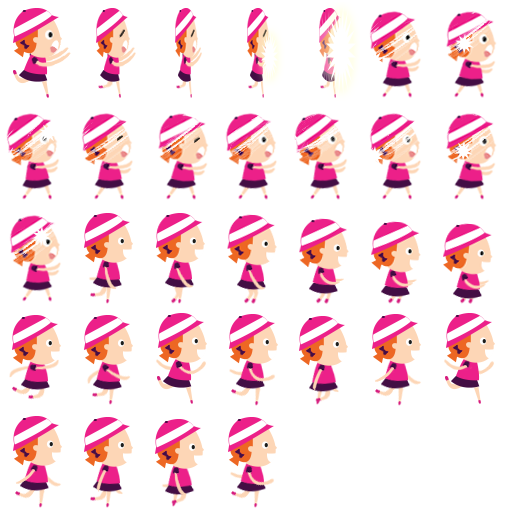
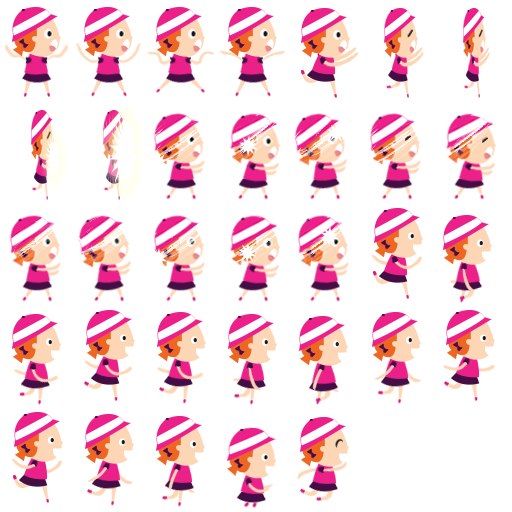
update player sprite

diff --git a/src/player.js b/src/player.js
@@ -36,13 +36,15 @@ var player = {
 
     this.scoreHud = game.add.text(10, 100, "SCORE: 0", { font: '24px fippsregular', fill: "#000" });
 
-		this.instance.animations.add('right', ['sprites_01.png', 'sprites_02.png', 'sprites_03.png', 'sprites_04.png', 'sprites_05.png', 'sprites_06.png', 'sprites_07.png', 'sprites_08.png', 'sprites_09.png', 'sprites_10'.png],
+		this.instance.animations.add('right', ['menina_correndo_01.png', 'menina_correndo_02.png', 'menina_correndo_03.png', 'menina_correndo_04.png', 'menina_correndo_05.png', 'menina_correndo_06.png', 'menina_correndo_07.png', 'menina_correndo_08.png', 'menina_correndo_09.png', 'menina_correndo_010.png', 'menina_correndo_011.png', 'menina_correndo_012.png'],
                                  15, true);
-		this.instance.animations.add('jump', ['menina_pulando_05.png', 'menina_pulando_06.png', 'menina_pulando_07.png'],
+		this.instance.animations.add('jump', ['menina_pulando_06.png', 'menina_pulando_07.png'],
                                  10, false);
-		this.instance.animations.add('collide', ['menina_colidindo_01.png', 'menina_colidindo_02.png', 'menina_colidindo_03.png', 'menina_colidindo_04.png', 'menina_colidindo_05.png', 'menina_colidindo_06.png', 'menina_colidindo_07.png', 'menina_colidindo_08.png', 'menina_colidindo_09.png', 'menina_colidindo_10.png', 'menina_colidindo_11.png', 'menina_colidindo_12.png', 'menina_colidindo_13.png', 'menina_colidindo_14.png', 'menina_colidindo_15'.png],
+		this.instance.animations.add('collide', ['menina_colidindo_01.png', 'menina_colidindo_02.png', 'menina_colidindo_03.png', 'menina_colidindo_04.png', 'menina_colidindo_05.png', 'menina_colidindo_06.png', 'menina_colidindo_07.png', 'menina_colidindo_08.png', 'menina_colidindo_09.png', 'menina_colidindo_10.png', 'menina_colidindo_11.png', 'menina_colidindo_12.png', 'menina_colidindo_13.png', 'menina_colidindo_14.png', 'menina_colidindo_15.png'],
                                  15, false);
 		this.instance.animations.add('confused', ['menina_colidindo_06.png', 'menina_colidindo_07.png', 'menina_colidindo_08.png', 'menina_colidindo_09.png', 'menina_colidindo_10.png', 'menina_colidindo_11.png', 'menina_colidindo_12.png', 'menina_colidindo_13.png', 'menina_colidindo_14.png', 'menina_colidindo_15.png'],
+                                 15, true);
+		this.instance.animations.add('falling', ['menina_caindo_01.png', 'menina_caindo_02.png', 'menina_caindo_03.png', 'menina_caindo_04.png'],
                                  15, true);
 
     // this.instance
@@ -63,8 +65,7 @@ var player = {
 
 	addEnergy: function(color) {
 		this.score += this.colorScore[color] * 2;
-    this.scoreHud.text = "SCORE: " + this.score;
-    this.scoreHud.dirty = true;
+    this.updateScoreText();
 
     worldVelocity += this.colorSpeed[color];
 		this.energies[color] += this.colorEnergy[color];
@@ -73,14 +74,18 @@ var player = {
 
 	addScore: function(color) {
 		this.score += this.colorScore[color];
-    this.scoreHud.text = "SCORE: " + this.score;
-    this.scoreHud.dirty = true;
+    this.updateScoreText();
 
     // lesser addEnergy
     worldVelocity += this.colorSpeed[color] / 2;
 		this.energies[color] += (this.colorEnergy[color] / 3);
 		this.energies[color] = (this.energies[color] > 1) ? 1 : this.energies[color];
 	},
+
+  updateScoreText: function() {
+    this.scoreHud.text = "SCORE: " + this.score;
+    this.scoreHud.dirty = true;
+  },
 
   kill: function() {
     var previousWorldVelocity = worldVelocity,

diff --git a/src/platforms.js b/src/platforms.js
@@ -45,6 +45,8 @@ var platforms = {
 		this.platformsGroup = game.add.group();
 		this.obstaclesGroup = game.add.group();
 		this.insertGround();
+
+    setInterval(function() { platforms.updateScoreTimer(); }, 2000);
 	},
 
 	// insere uma plataforma de acordo com o level atual
@@ -79,7 +81,6 @@ var platforms = {
       maxTileY = 4;
       this.level = 1;
       this.tileInterval = 50 + (Math.random() * 50);
-
     }
 
     tileSize = Math.floor(((maxTileSize + 1) - (minTileSize - 1)) * Math.random()) + minTileSize;
@@ -144,6 +145,12 @@ var platforms = {
     //enable sound equalizations
     sound.setLevel(this.level);
 	},
+
+  updateScoreTimer: function() {
+    player.score += this.level * 5;
+    player.scoreHud.dirty = true;
+    player.updateScoreText();
+  },
 
 	addItems: function(platformX, platformY, platformWidth)
 	{

diff --git a/src/sound.js b/src/sound.js
@@ -1,6 +1,7 @@
 var sound = {
   initialized: false,
-  base: null,
+
+  lastLevel: 1,
   playbackRate: 0.99,
   lastPlaybackRate: 0.99,
 
@@ -26,7 +27,7 @@ var sound = {
   },
 
   setLevel: function(level) {
-    if(this.initialized == false) {return null;}
+    if(this.initialized == false || level === this.lastLevel) {return null;}
 
     console.log(level, "oi endel");
 
@@ -47,12 +48,12 @@ var sound = {
         // game.add.tween(this.highvoices._sound).to({volume: 1}, 1000).start();
         break;
     }
+
+    this.lastLevel = level;
   },
 
   setPlaybackRate: function(rate, interval) {
-    if (!interval) {
-      interval = 1;
-    }
+    if (!interval) { interval = 1; }
     this.lastPlaybackRate = rate;
 
     game.add.tween(this.base._sound.playbackRate).to({value: rate}, interval).start();

diff --git a/src/collector.js b/src/collector.js
@@ -21,6 +21,8 @@ var collector = {
     sprite.anchor.setTo(0.5, 0.5);
     sprite.body.setSize(20, 20, -5, -15);
     sprite.y -= sprite.height / 2;
+    // // random first frame
+    // sprite.frame = Math.floor((Math.random() * numFrames));
 		this.group.add(sprite);
 
 		this.objects.push(sprite);
@@ -36,7 +38,8 @@ var collector = {
       player.addScore(sprite2.color);
     }
 
-    game.add.tween(sprite2).to({alpha: 0}, 200).onCompleteCallback(function() {
+    game.add.tween(sprite2.scale).to({x:3,y:3}, 100);
+    game.add.tween(sprite2).to({alpha: 0}, 100).onCompleteCallback(function() {
       sprite2.kill();
     }).start();
 		return false;
